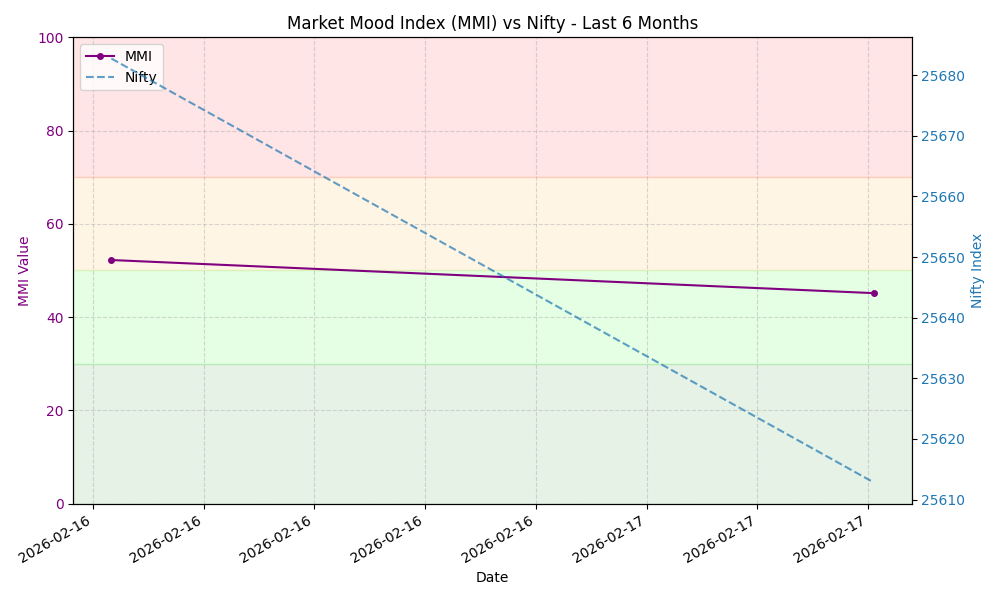
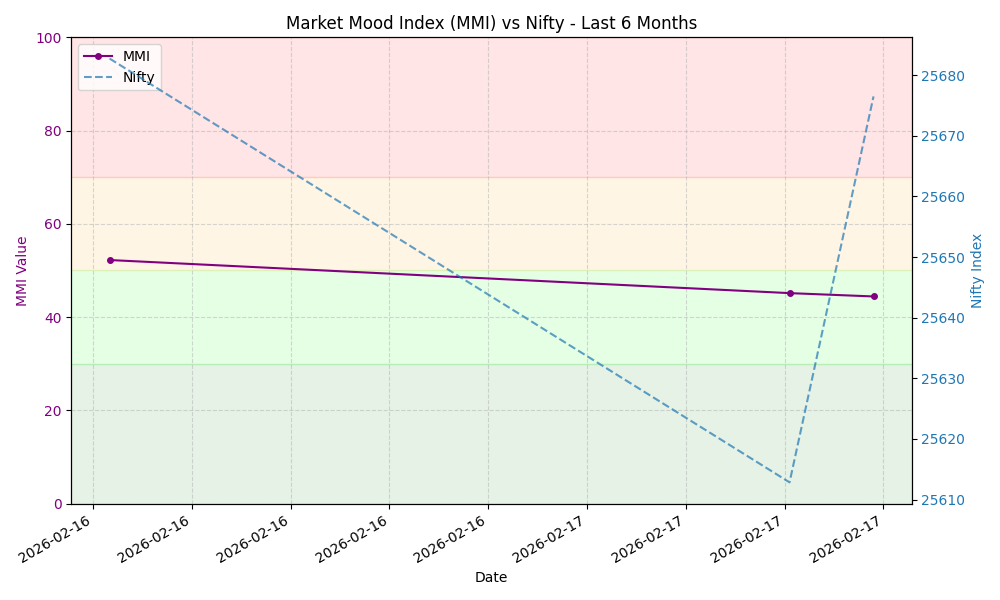
Update MMI data and chart

diff --git a/README.md b/README.md
@@ -7,8 +7,8 @@ This repository automatically fetches the MMI value, stores the history, and gen
 
 ## Latest MMI Value
 
-**45.13** - **Fear**
-<small>Last Updated: 2026-02-17 04:06 UTC</small>
+**44.42** - **Fear**
+<small>Last Updated: 2026-02-17 05:48 UTC</small>
 
 ## MMI Trend (Last 30 Days)
 
